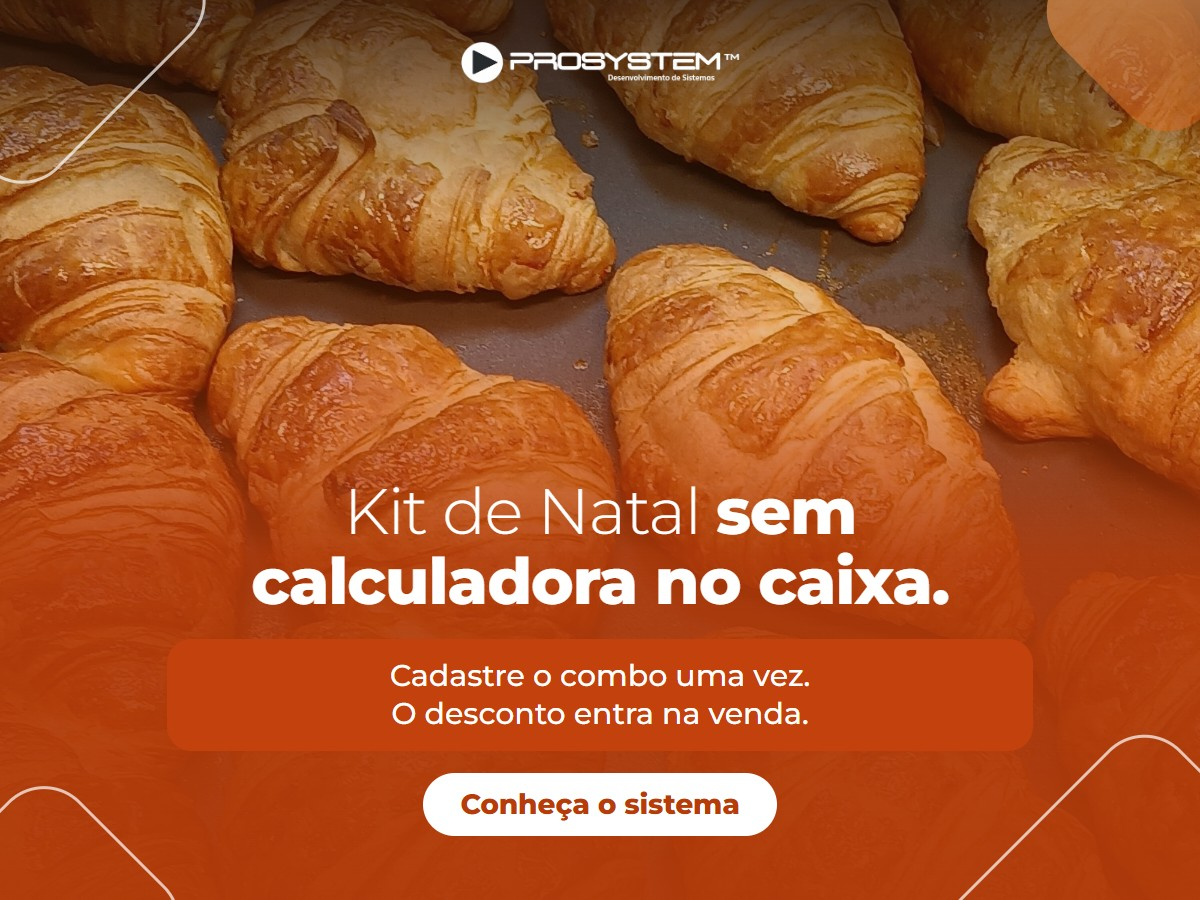
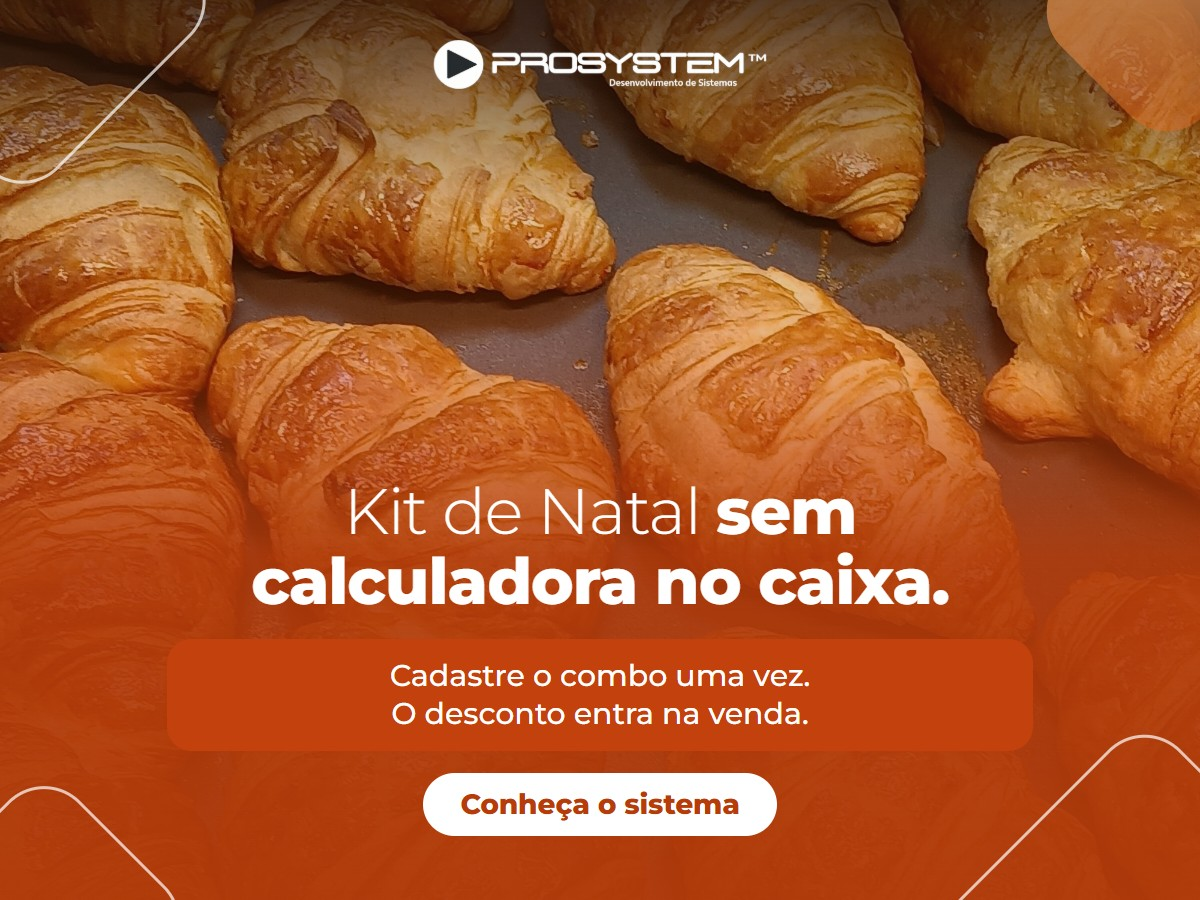
Atualização automática (03/11/2026 13:36): 8 arquivo(s)
Arquivos: outputs/criativos/google-nov-jan/dados.js, outputs/criativos/google-nov-jan/gerar.js, outputs/criativos/google-nov-jan/imagens/2026-11-05-reforma-tributaria-farmacia-2027.jpg e mais 5

Changed region(s): [[0.3392, 0.0311, 0.6475, 0.1244]]

diff --git a/outputs/criativos/google-nov-jan/gerar.js b/outputs/criativos/google-nov-jan/gerar.js
@@ -26,7 +26,7 @@ const px = (n) => `calc(${n}*var(--u))`;
 const AJUSTES = `
 .post{aspect-ratio:4/3}
 .tom{position:absolute;inset:0;z-index:2;background:linear-gradient(180deg,rgba(var(--sb),.8) 0%,rgba(var(--sb),.15) 24%,rgba(var(--mar),.3) 40%,rgba(var(--mar),.9) 62%,rgba(var(--mar),.97) 100%)}
-.lg{top:${px(38)};width:${px(250)}}
+.lg{top:${px(36)};width:${px(300)}}
 .bloco{position:absolute;left:${px(150)};right:${px(150)};bottom:${px(58)};z-index:7;display:flex;flex-direction:column;align-items:center;gap:${px(20)};text-align:center}
 .bloco h2{font-size:${px(58)};line-height:1.08}
 .bloco .fx{font-size:${px(27)};padding:${px(16)} ${px(28)}}

diff --git a/outputs/criativos/google-nov-jan/dados.js b/outputs/criativos/google-nov-jan/dados.js
@@ -158,7 +158,7 @@ No blog, veja o modelo de registro e o que fazer com o pão que sobrou.`,
   },
   {
     data: '2027-01-14', dia: 'Qui 14/01', seg: 'Farmácia', id: 'sncr-receita-eletronica-controlados', tema: 'azul',
-    foto: 'conferindo-frasco', posicao: '50% 35%',
+    foto: 'teclado-azul', posicao: '50% 50%',
     palavra: 'receita eletrônica de controlados',
     titulo: 'Receita eletrônica de controlados <b>com numeração do SNCR.</b>',
     faixa: 'O papel continua valendo. O SNCR não substitui o SNGPC.', pilula: 'Leia no blog',
